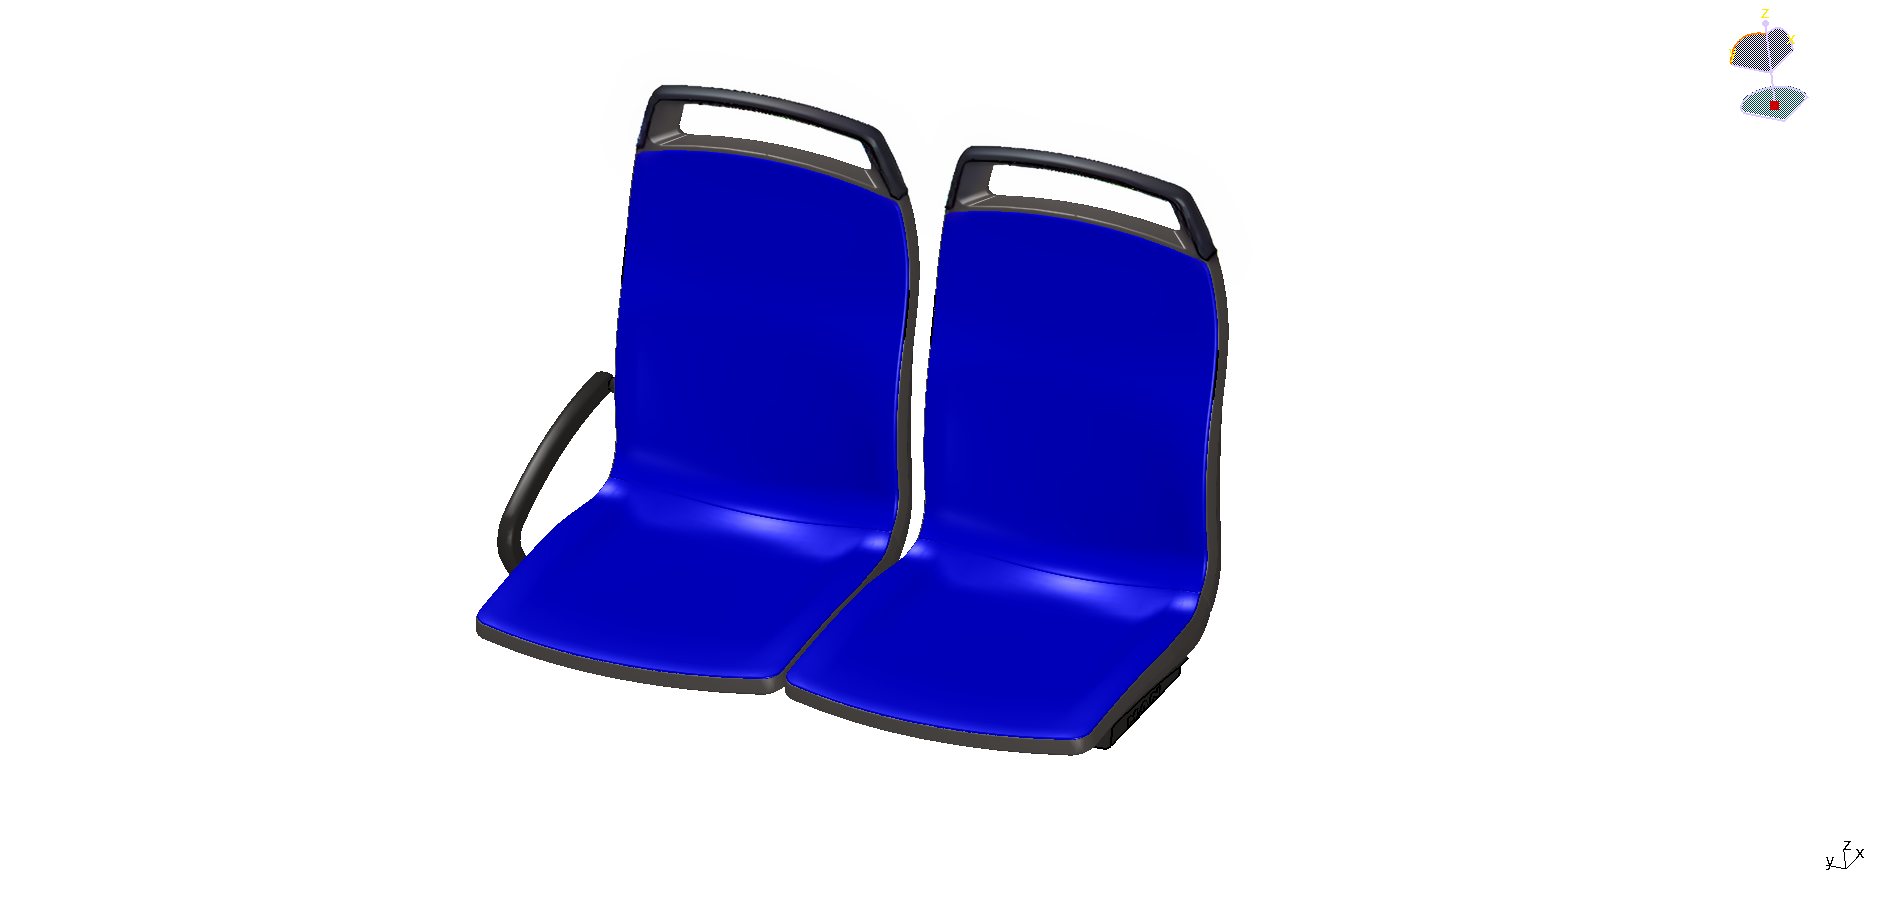
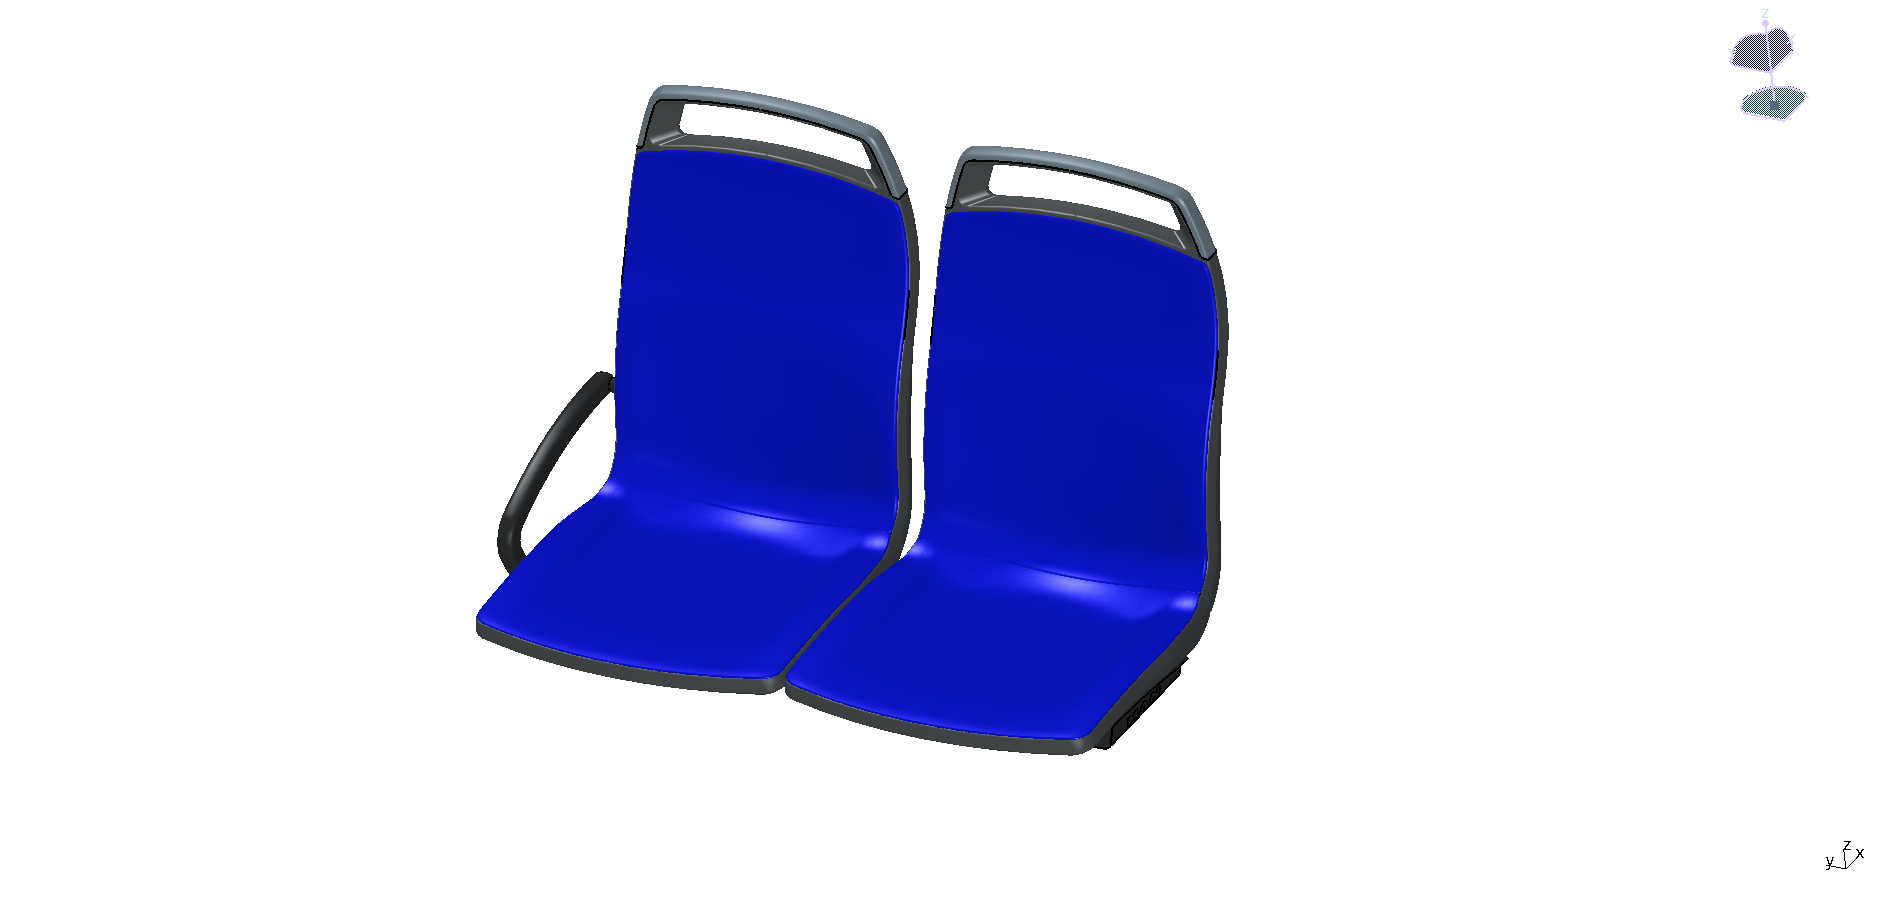
xx
x

Changed region(s): [[0.4628, 0.1561, 0.6479, 0.2809], [0.3394, 0.0936, 0.4628, 0.1561]]

diff --git a/src/views/Customer.vue b/src/views/Customer.vue
@@ -2315,10 +2315,9 @@ export default {
               position: { top: "65%", left: "25%" },
             });
           }
-        } else if (this.selectedGattung?.name?.trim() === "78RI - Sitzhaltegriffe") {
+        } 
+        else if (this.selectedGattung?.name?.trim() === "78RI - Sitzhaltegriffe") {
   // Add details for Gattung 78RI );
-  
-  
   if(this.selectedModel["Topcloser"]==="RAL 3001")
        {
         this.imgSrc = "../assets/Showdetails/topcloser/RAL3001.png";   
@@ -2341,35 +2340,57 @@ export default {
         this.imgSrc = "../assets/Showdetails/topcloser/RAL9004.png";   
        }
   }
-
  else if (
           this.selectedGattung?.name?.trim() === "78RD - Sitzarmlehnen"
         ) {
-          if (this.selectedModel["Gangseitige klappbare armlehne"]) {
-            this.accumulatedDetails.push({
-              text: this.selectedModel["Gangseitige klappbare armlehne"],
-              position: { top: "50%", left: "8%" },
-              color: this.getRalColor(
-                this.selectedModel["Gangseitige klappbare armlehne"]
-              ),
-            });
+          if (this.selectedModel["Gangseitige klappbare armlehne"]==="RAL 9004") {
+            this.imgSrc= "../assets/Showdetails/armlehne/RAL9004.png"
+          
           }
-          this.imgSrc = "../assets/Bestuhlung/bestuhlung_default.jpeg";
+          if (this.selectedModel["Gangseitige klappbare armlehne"]==="dunkelgrau NCS S8000N (serie)") {
+            this.imgSrc="../assets/Showdetails/armlehne/NCSS8000-N.png"
+          
+          }
+        
         } else if (
           this.selectedGattung?.name?.trim() === "770A - Fahrgastsitz-Rückseite"
         ) {
-          // Add details for Kunststoff-Fahrgastsitzrückseite
-          if (this.selectedModel["Kunststoff-Fahrgastsitzrückseite"]) {
-            this.accumulatedDetails.push({
-              text: this.selectedModel["Kunststoff-Fahrgastsitzrückseite"],
-              position: { top: "40%", left: "80%" },
-              color: this.getRalColor(
-                this.selectedModel["Kunststoff-Fahrgastsitzrückseite"]
-              ),
-            });
+          
+          if(this.selectedModel["Kunststoff-Fahrgastsitzrückseite"]==="RAL 1003")
+       {
+        this.imgSrc = "../assets/Showdetails/Kunststoff/RAL1003.png";   
+       }
+
+       if(this.selectedModel["Kunststoff-Fahrgastsitzrückseite"]==="RAL 3003")
+       {
+        this.imgSrc = "../assets/Showdetails/Kunststoff/RAL3003.png";   
+       }
+       if(this.selectedModel["Kunststoff-Fahrgastsitzrückseite"]==="RAL 3020")
+       {
+        this.imgSrc = "../assets/Showdetails/Kunststoff/RAL3020.png";   
+       }
+       if(this.selectedModel["Kunststoff-Fahrgastsitzrückseite"]==="RAL 5007")
+       {
+        this.imgSrc = "../assets/Showdetails/Kunststoff/RAL5007.png";   
+       }
+       if(this.selectedModel["Kunststoff-Fahrgastsitzrückseite"]==="RAL 7016")
+       {
+        this.imgSrc = "../assets/Showdetails/Kunststoff/RAL7016.png";   
+       }
+       if(this.selectedModel["Kunststoff-Fahrgastsitzrückseite"]==="RAL 7037")
+       {
+        this.imgSrc = "../assets/Showdetails/Kunststoff/RAL7037.png";   
+       }
+       if(this.selectedModel["Kunststoff-Fahrgastsitzrückseite"]==="RAL 1015")
+       {
+        this.imgSrc = "../assets/Showdetails/Kunststoff/RAL1015.png";   
+       }
+     
+
           }
-          this.imgSrc = "../assets/Bestuhlung/bestuhlung_default.jpeg";
-        }
+        
+      
+        
         
        
       // Set to the correct image path for Bestuhlung
